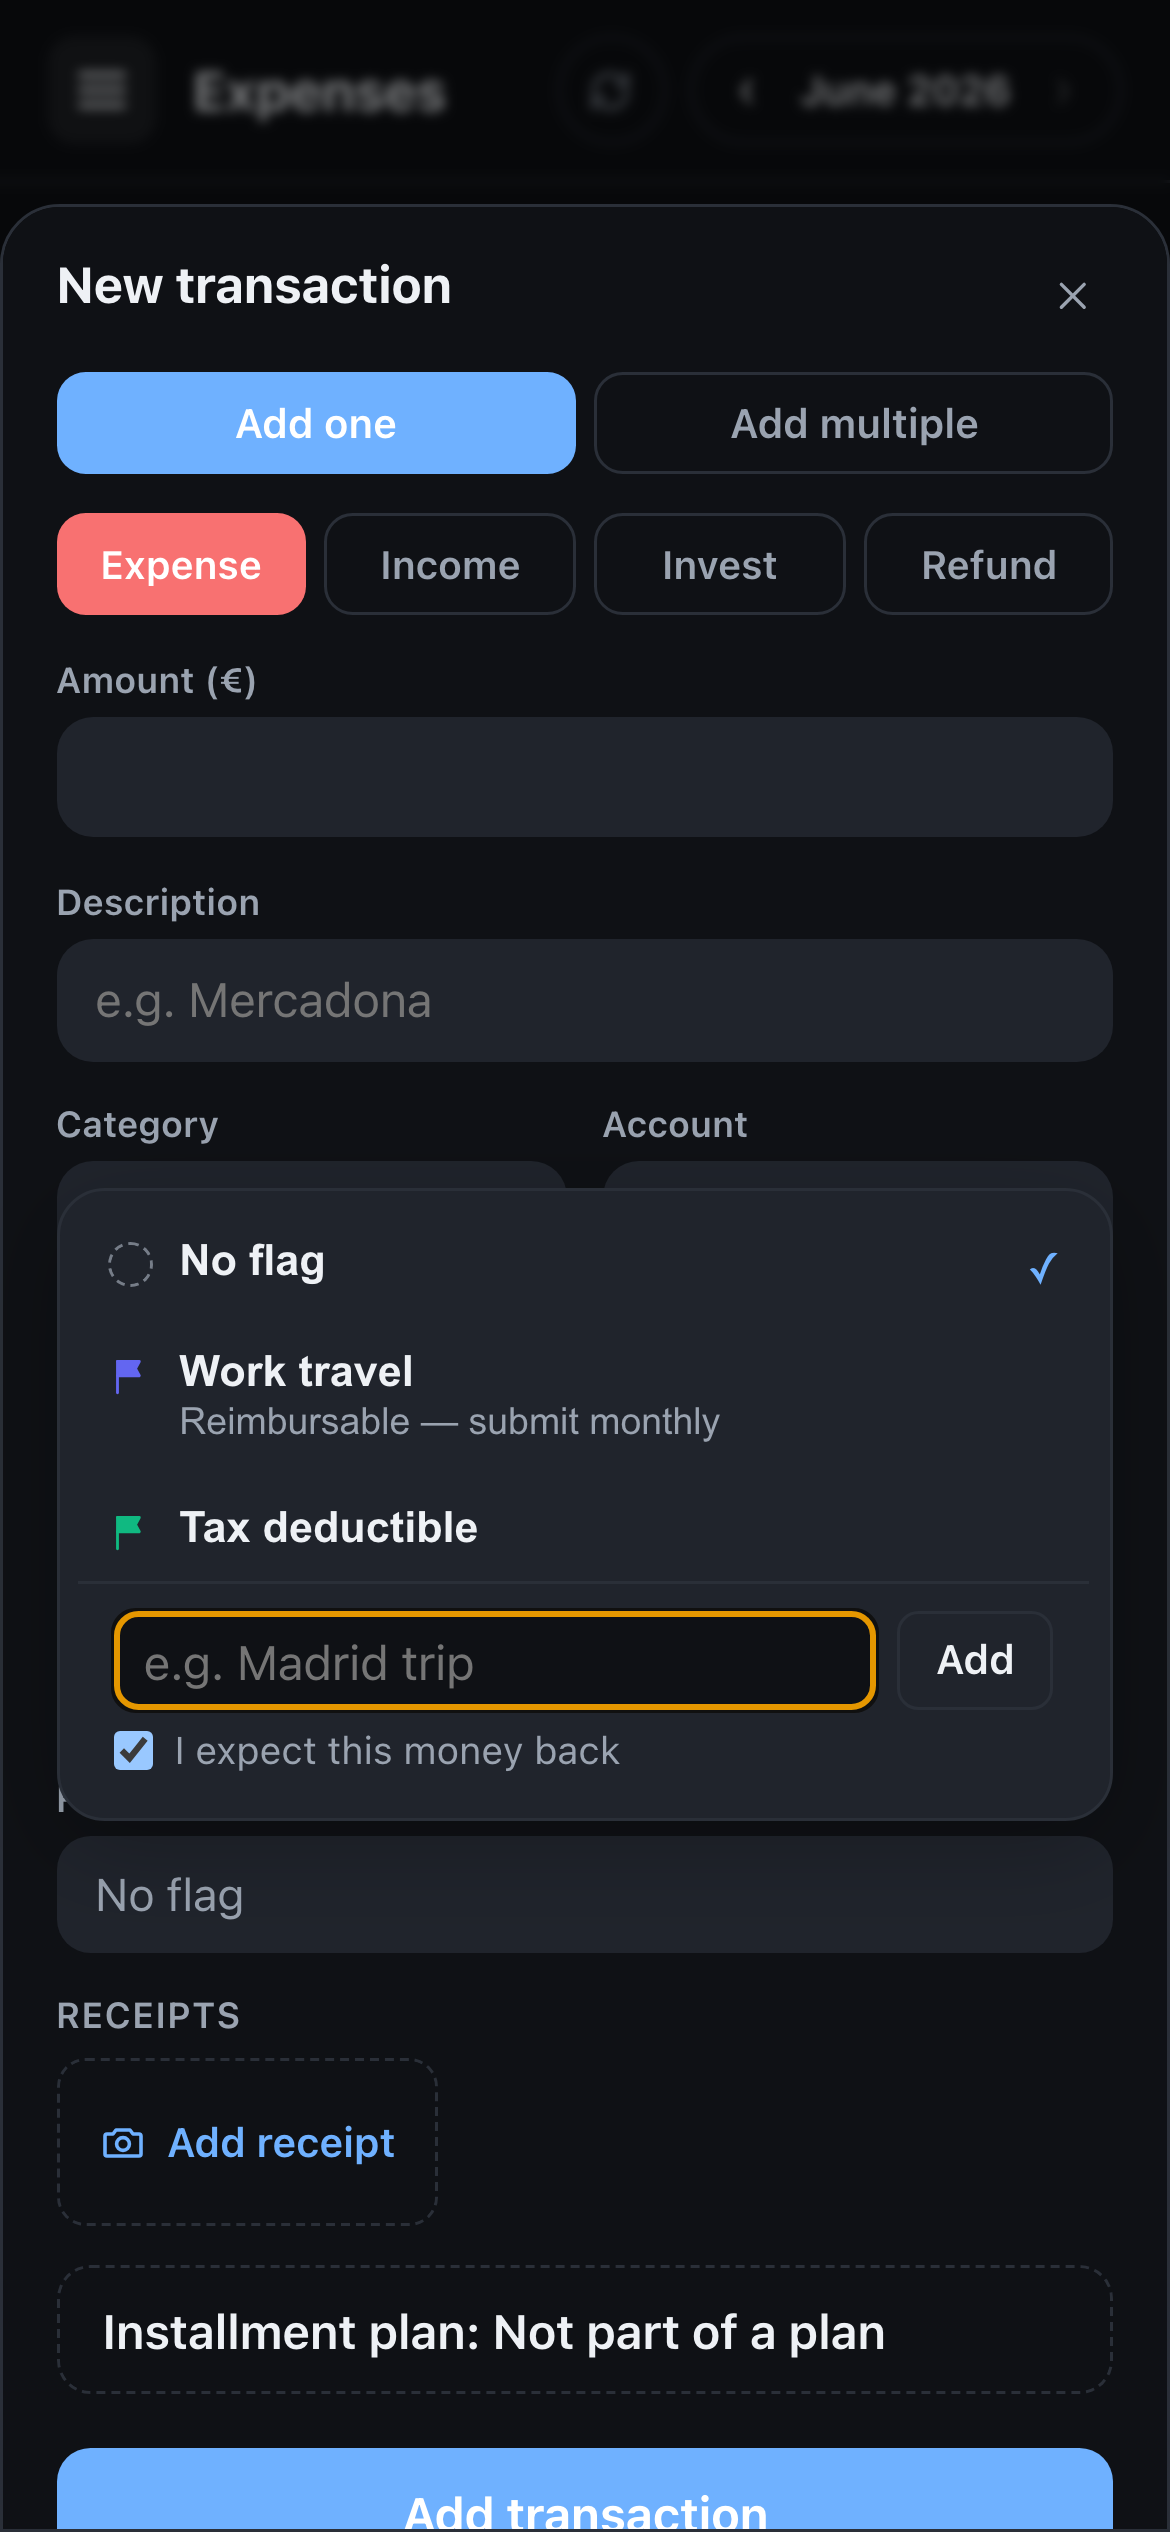
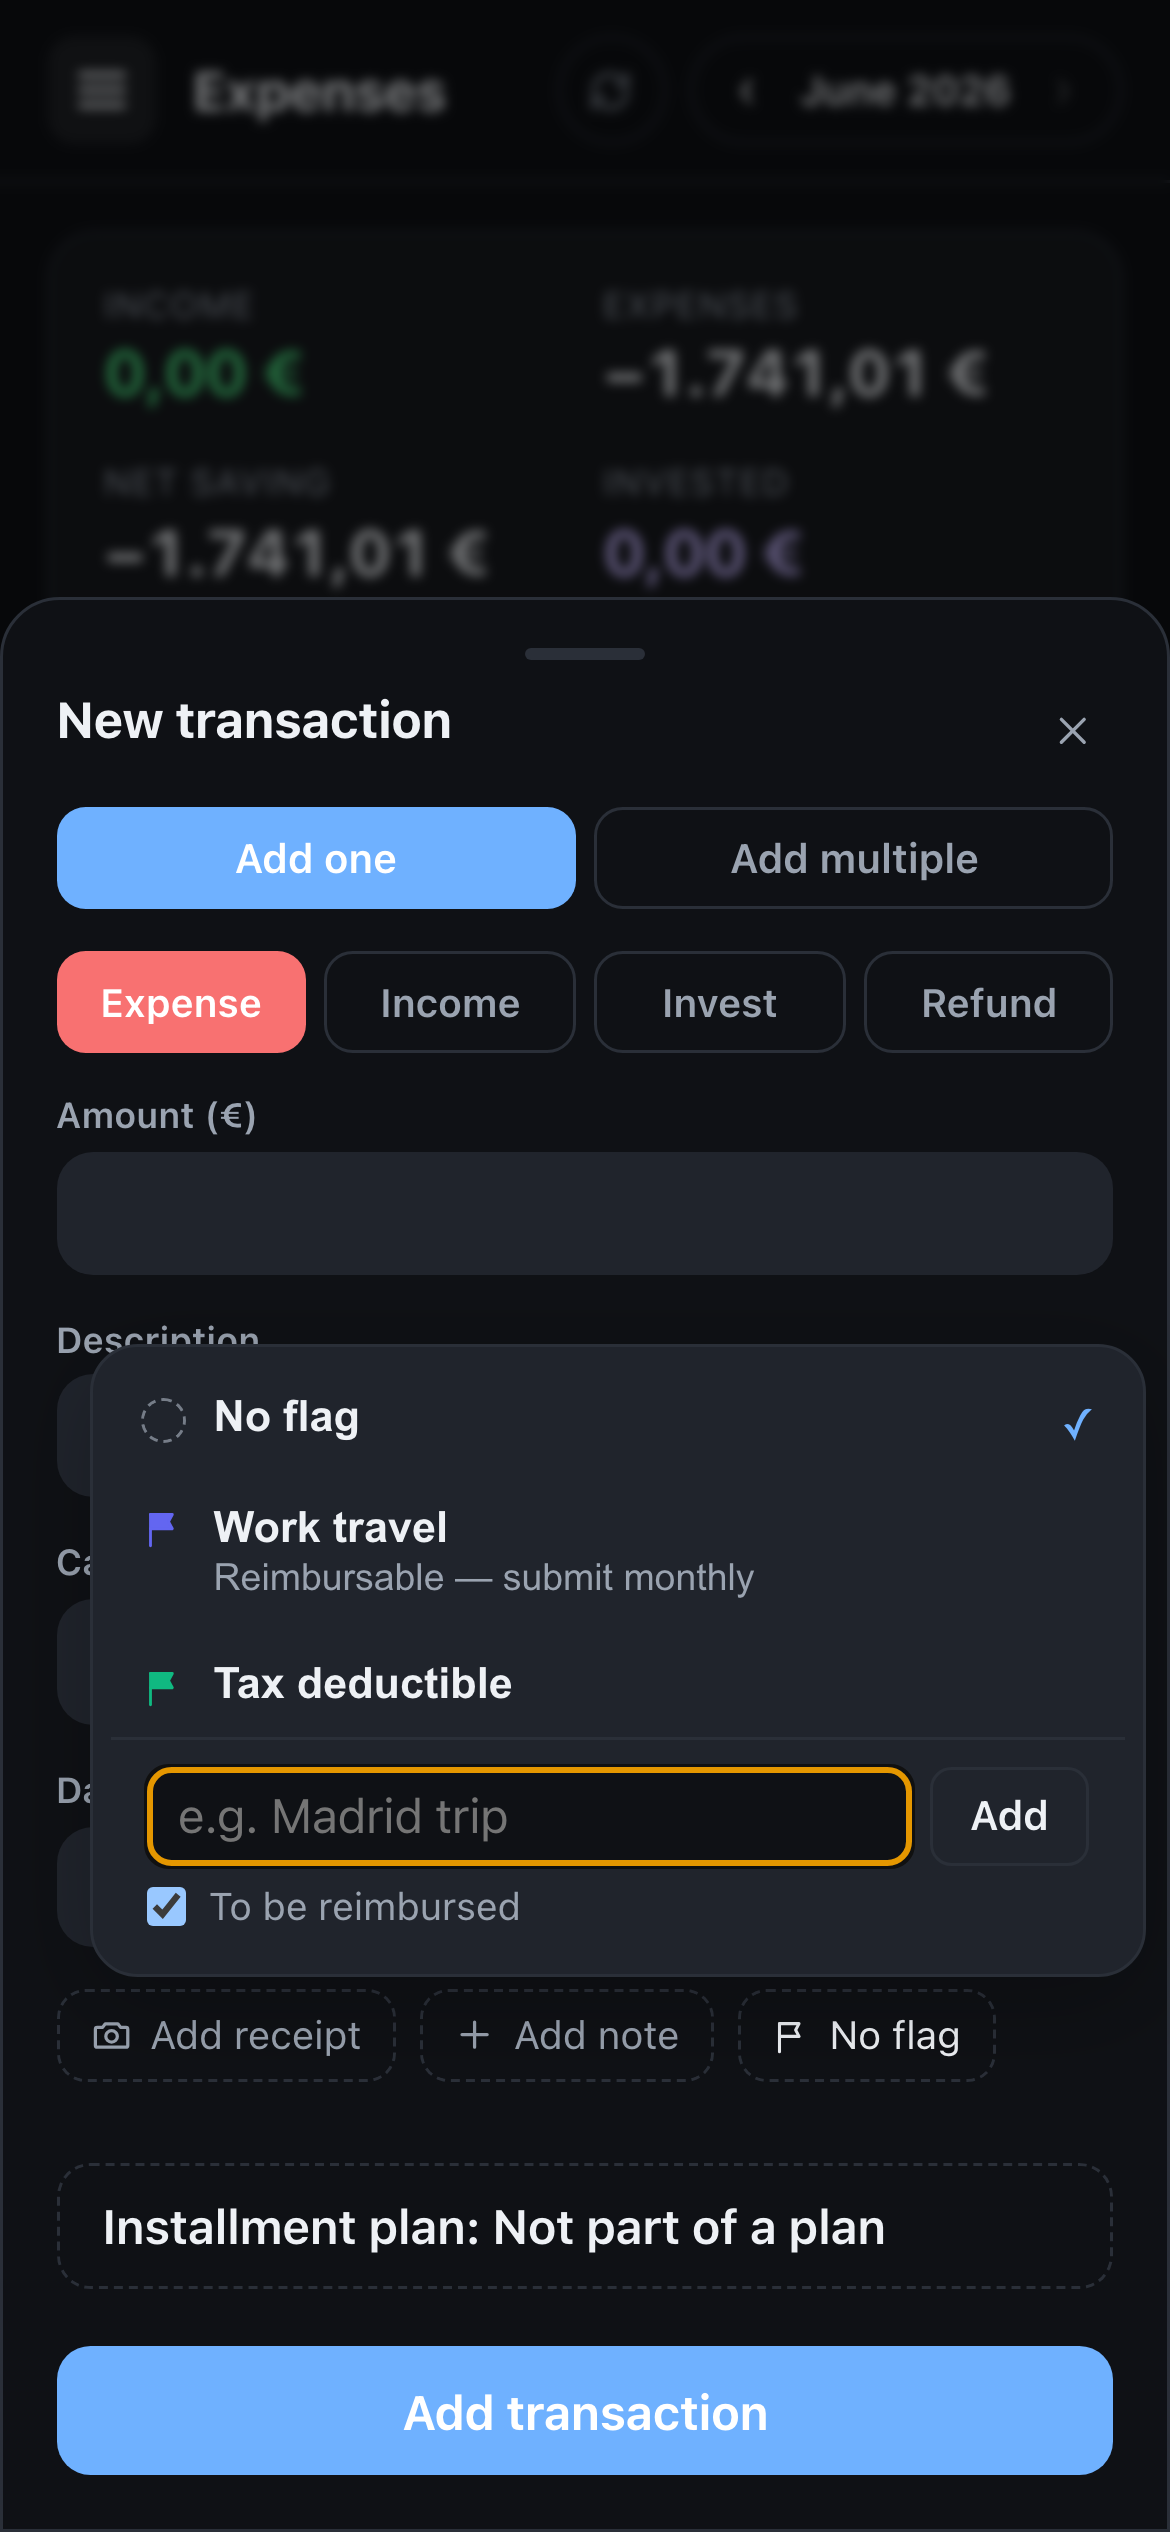
Reword the reimbursable checkbox to "To be reimbursed"
"I expect this money back" read as crude. Changed in both places the same
decision is made — the full editor and the in-place picker — so they cannot
drift apart.

diff --git a/src/ui/components/FlagPickerPopover.test.tsx b/src/ui/components/FlagPickerPopover.test.tsx
@@ -199,7 +199,7 @@ describe('FlagPickerPopover — choosing whether a flag expects money back', () 
     renderPicker({ onCreate: vi.fn() })
 
     await user.click(screen.getByRole('button', { name: '+ New flag' }))
-    expect(screen.getByRole('checkbox', { name: /expect this money back/i })).toBeChecked()
+    expect(screen.getByRole('checkbox', { name: /to be reimbursed/i })).toBeChecked()
   })
 
   it('creates a non-reimbursable flag when the box is cleared', async () => {
@@ -208,7 +208,7 @@ describe('FlagPickerPopover — choosing whether a flag expects money back', () 
     renderPicker({ onCreate })
 
     await user.click(screen.getByRole('button', { name: '+ New flag' }))
-    await user.click(screen.getByRole('checkbox', { name: /expect this money back/i }))
+    await user.click(screen.getByRole('checkbox', { name: /to be reimbursed/i }))
     await user.type(screen.getByRole('textbox', { name: 'New flag name' }), 'Charity donations{Enter}')
 
     // A flag nobody is going to pay must not offer an expense report — that is

diff --git a/src/ui/definitions/FlagForm.tsx b/src/ui/definitions/FlagForm.tsx
@@ -120,7 +120,7 @@ export function FlagForm({
           onChange={(e) => patch({ reimbursable: e.target.checked })}
         />
         <span>
-          I expect this money back
+          To be reimbursed
           <span className={styles.checkHint}>
             Adds an expense report and a Record reimbursement action to this flag. Leave it off for
             a flag you only use to find things later, like tax-deductible spending.

diff --git a/src/ui/components/FlagPickerPopover.tsx b/src/ui/components/FlagPickerPopover.tsx
@@ -108,7 +108,7 @@ function QuickCreate({
           disabled={busy}
           onChange={(e) => setReimbursable(e.target.checked)}
         />
-        <span>I expect this money back</span>
+        <span>To be reimbursed</span>
       </label>
       {err ? (
         <p className={styles.createError} role="alert">
